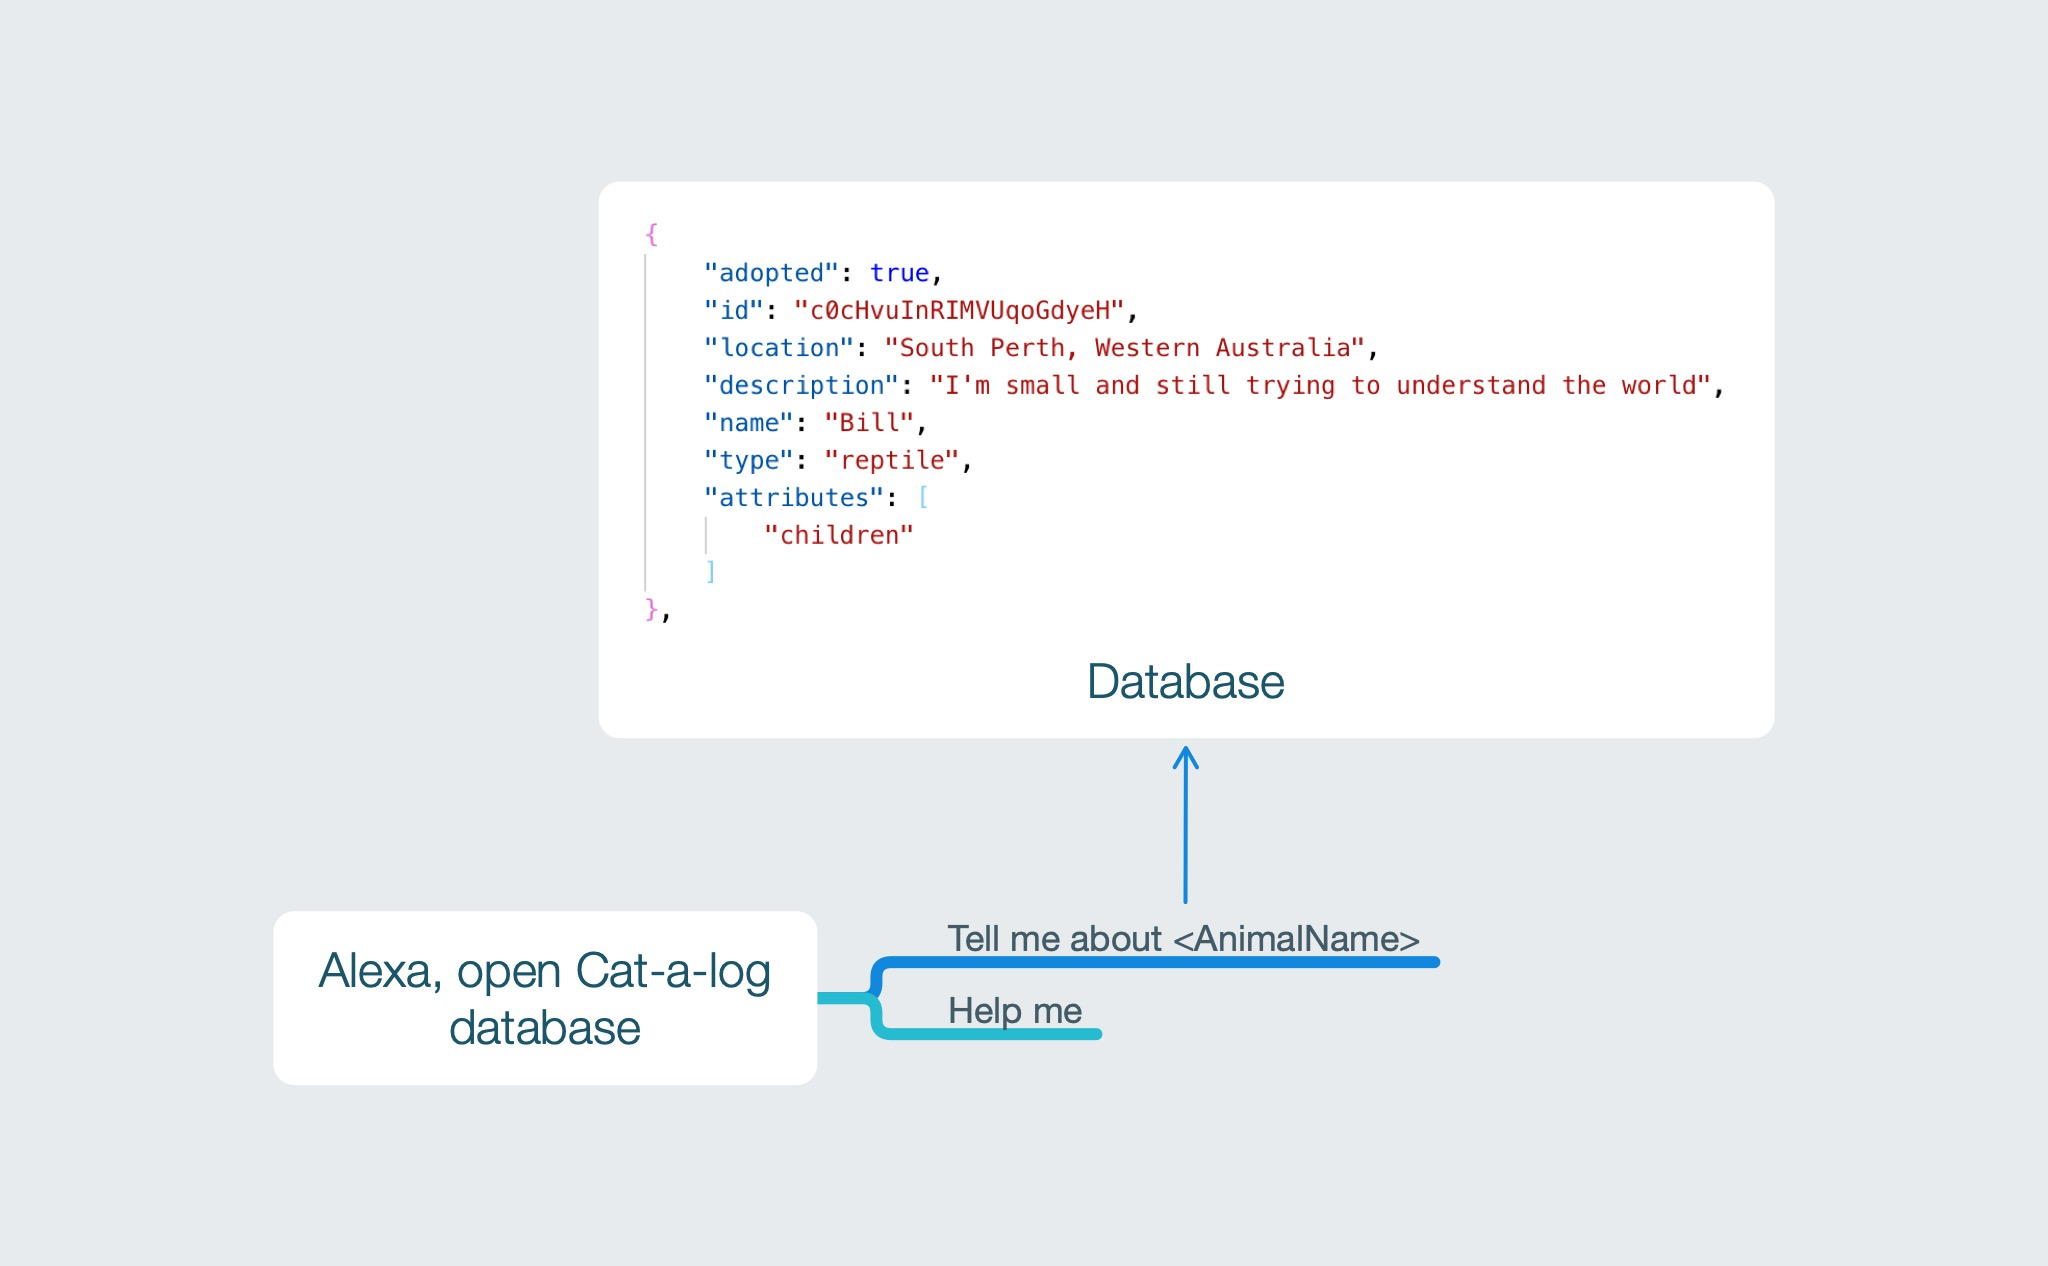
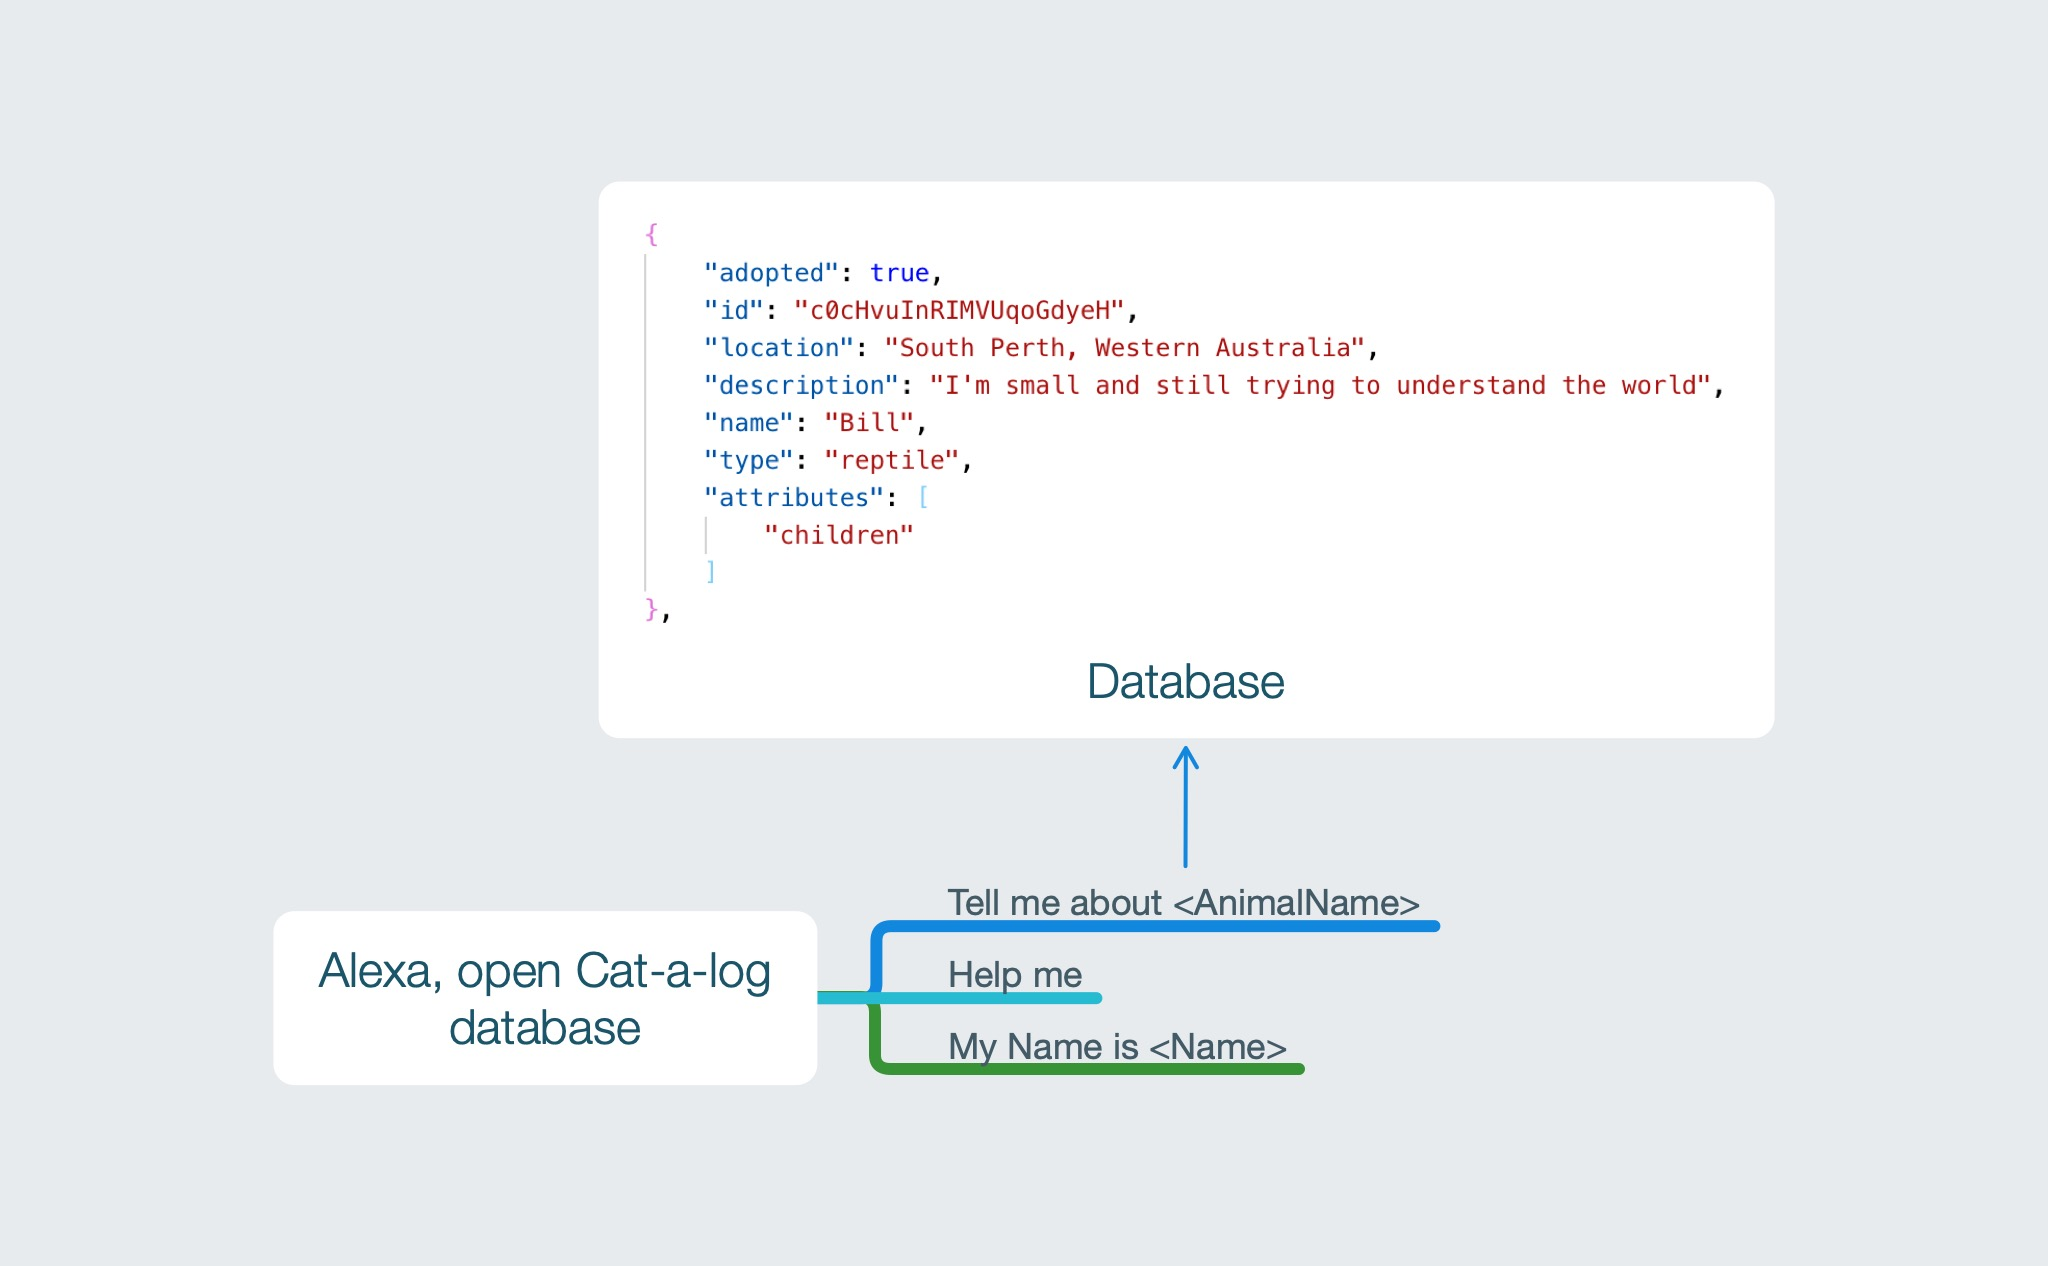
Completed 04_02

Changed region(s): [[0.4062, 0.6777, 0.7188, 0.8626]]

diff --git a/L04_S02/lambda/custom/intents/ChangeName.js b/L04_S02/lambda/custom/intents/ChangeName.js
@@ -1,0 +1,50 @@
+//
+// Records the name of the user
+//
+
+"use strict";
+
+module.exports = {
+  canHandle: function(handlerInput) {
+    const request = handlerInput.requestEnvelope.request;
+    return (
+      request.type === "IntentRequest" &&
+      request.intent.name === "ChangeNameIntent"
+    );
+  },
+  handle: function(handlerInput) {
+    const event = handlerInput.requestEnvelope;
+    // Grab a reference to the session attributes
+    const attributes = handlerInput.attributesManager.getSessionAttributes();
+    const res = require("../resources")(event.request.locale);
+    let speech;
+
+    if (
+      !event.request.intent ||
+      !event.request.intent.slots ||
+      !event.request.intent.slots.Name ||
+      !event.request.intent.slots.Name.value
+    ) {
+      // Delegate this
+      return handlerInput
+        .addDelegateDirective(event.request.intent)
+        .getResponse();
+    }
+
+    // Repeat name, and alert they can change it
+    attributes.name = event.request.intent.slots.Name.value;
+    speech = res.strings.CHANGE_CONFIRM.replace("{0}", attributes.name);
+    if (!attributes.temp.namePrompt) {
+      speech += res.strings.CHANGE_PROMPT_CHANGE;
+      attributes.temp.namePrompt = true;
+    }
+
+    const reprompt = res.strings.CHANGE_REPROMPT;
+    speech += reprompt;
+
+    return handlerInput.responseBuilder
+      .speak(speech)
+      .reprompt(reprompt)
+      .getResponse();
+  }
+};

diff --git a/L04_S02/lambda/custom/resources.js b/L04_S02/lambda/custom/resources.js
@@ -5,14 +5,22 @@
 const resources = {
   "en-US": {
     translation: {
-      // Stop.js
+      // ChangeName.js
+      'CHANGE_CONFIRM': 'Welcome {0}. ',
+      'CHANGE_PROMPT_CHANGE': 'You can change your name at any time by saying change name. <break time=\"200ms\"/> ',
+      'CHANGE_REPROMPT': 'To begin, say Describe Felix',
+      // base/Stop.js
       'EXIT_SKILL': 'Goodbye!',
     }
   },
 
   "en-AU": {
     translation: {
-      // Stop.js
+      // ChangeName.js
+      'CHANGE_CONFIRM': 'Welcome {0}. ',
+      'CHANGE_PROMPT_CHANGE': 'You can change your name at any time by saying change name. <break time=\"200ms\"/> ',
+      'CHANGE_REPROMPT': 'To begin, say Describe Felix',
+      // base/Stop.js
       'EXIT_SKILL': 'Cya!',
     }
   }

diff --git a/L04_S02/lambda/custom/index.js b/L04_S02/lambda/custom/index.js
@@ -11,6 +11,7 @@ const SessionEnd = require("./intents/base/SessionEnd");
 
 // Custom Intents
 const AnimalDetails = require('./intents/AnimalDetails');
+const ChangeName = require('./intents/ChangeName');
 
 const ErrorHandler = {
   canHandle() {
@@ -31,6 +32,7 @@ const skillBuilder = Alexa.SkillBuilders.custom();
 exports.handler = skillBuilder
   .addRequestHandlers(
     AnimalDetails,
+    ChangeName,
     Launch,
     Help,
     Stop,
